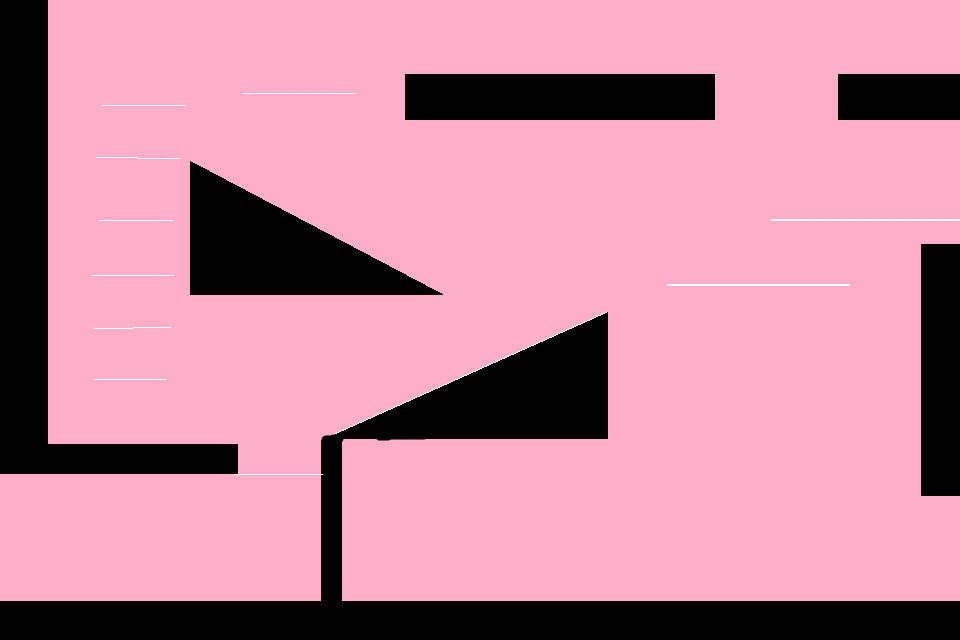
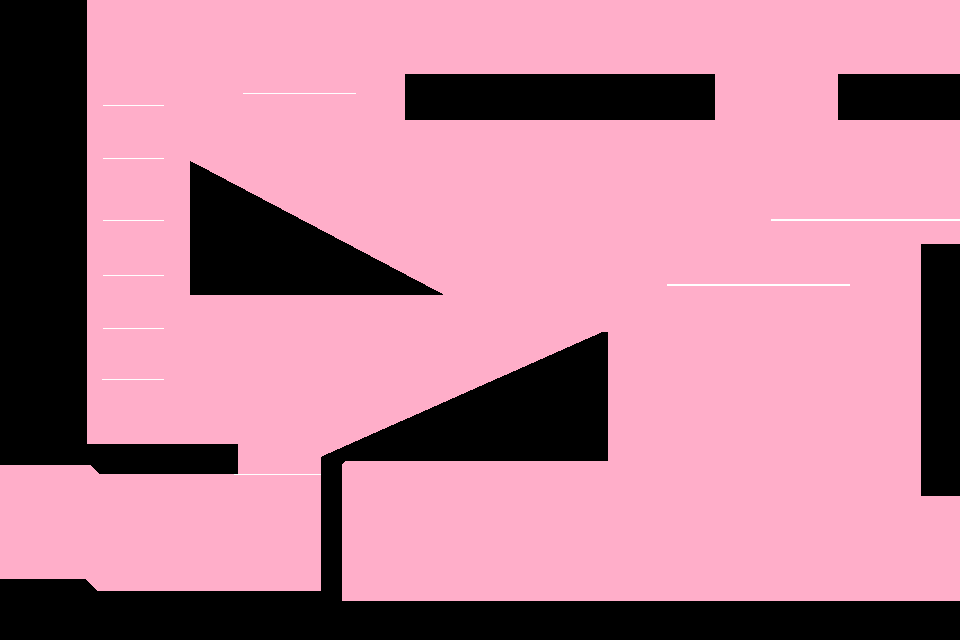
world and player changes and other stuff of course

Changed region(s): [[0.0, 0.0, 0.0938, 0.75], [0.3125, 0.5, 0.6562, 0.7188], [0.0, 0.9062, 0.3438, 0.9375]]

diff --git a/src/player.js b/src/player.js
@@ -3,15 +3,15 @@ class Player {
     x = 100; // middle of player (right pixel)
     y = 200;  // bottom of player
     vx = 0;
-    vy = 0;
+    vy = -20;
     w = 32;
     hw = 32/2; //half width
-    h = 64;
+    h = 80;
     ax = .6;
     jv = -18;
     // mvx = 20;
     mvy = 22;
-    midairJumps = 1;
+    midairJumps = 0;
     midair = true;
     midairTimer = 0;
     animator = new Animator();
@@ -62,12 +62,13 @@ class Player {
                 // if (this.vx > this.mvx) this.vx = this.mvx;
                 if (this.vx > 0) this.facingRight = true;
             }
-            if (keys[87] && !lastKeys[87]) { //up
-                this.jv = -18;
+            if (keys[87] && !lastKeys[87] && this.midairTimer < COYOTE_DUR) { //up
+                this.jv = -20;
                 this.animator.play("jumpcrouch", t => {
                     if (t > P_CROUCH_DUR) {
                         this.jumps--;
-                        this.animator.switchState("midair");
+                        this.animator.play("midair");
+                        this.midair = true;
                         this.vy = this.jv;
                     }
                 });
@@ -223,31 +224,16 @@ class Player {
     
     initAnimator() {
         let midairframes = [
-            { x:340, y:433, w:50, h:59, px:356, py:486 },
-            { x:393, y:430, w:46, h:62, px:411, py:486 },
-            { x:7,   y:511, w:44, h:66, px:24 , py:572 },
-            { x:59,  y:507, w:41, h:70, px:76 , py:572 },
-            { x:106, y:506, w:36, h:71, px:125, py:572 },
-            { x:154, y:507, w:36, h:70, px:172, py:572 },
-            { x:197, y:507, w:37, h:70, px:213, py:572 },
+            { x:384, y:249, w:92, h:127, px:436, py:375 },
         ]
         this.animator.register("midair",
             midairframes,
-            t => {
-                // if      (obj.vy > -2.25)  return 6;
-                // else if (obj.vy > -4.5)   return 5;
-                // else if (obj.vy > -6.75)  return 4;
-                // else if (obj.vy > -9)     return 3;
-                // else if (obj.vy > -11.25) return 2;
-                // else if (obj.vy > -13.5)  return 1;
-                // else                      return 0;
-                return Math.floor(Math.min(6,Math.max(0, 7+this.vy/2.25)));
-            }
+            t => 0
         );
 
         let jumpcrouchframes = [
-            { x:154, y:441, w:56, h:54, px:182, py:494 },
-            { x:214, y:440, w:55, h:55, px:242, py:494 },
+            { x:135, y:255, w:87, h:90, px:190, py:343 },
+            { x:260, y:254, w:88, h:107, px:297, py:360 },
         ];
         this.animator.register("jumpcrouch",
             jumpcrouchframes,
@@ -255,8 +241,8 @@ class Player {
         );
 
         let landingframes = [
-            { x:241, y:507, w:47, h:87, px:270, py:590 },
-            { x:291, y:551, w:58, h:43, px:332, py:581 },
+            { x:260, y:254, w:88, h:107, px:297, py:360 },
+            { x:135, y:255, w:87, h:90, px:190, py:343 },
         ];
         this.animator.register("land",
             landingframes,
@@ -264,18 +250,18 @@ class Player {
         );
 
         this.animator.register("stand", [
-                { x:3, y:7, w:36, h:42, px:21, py:44 },
+                { x:11, y:13, w:76, h:96, px:45, py:106 },
             ],
             (() => 0) //always select frame 0
         );
 
         let runningFrames = [
-            { x:3, y:7, w:36, h:42, px:21, py:44 },
-            { x:41, y:4, w:37, h:46, px:58, py:46 },
-            { x:80, y:6, w:38, h:44, px:97, py:46 },
-            { x:82, y:75, w:34, h:40, px:96, py:113 },
-            { x:124, y:72, w:39, h:46, px:145, py:115 },
-            { x:168, y:78, w:32, h:41, px:182, py:116 },
+            { x:11, y:13, w:76, h:96, px:45, py:106 },
+            { x:100, y:9, w:86, h:105, px:146, py:110 },
+            { x:203, y:20, w:79, h:93, px:243, py:110 },
+            { x:7, y:134, w:82, h:92, px:46, py:225 },
+            { x:117, y:129, w:86, h:103, px:156, py:230 },
+            { x:220, y:143, w:79, h:92, px:260, py:232 },
         ];
         this.animator.register("run", runningFrames,
         getLoopingFrameSelector(40, runningFrames.length)

diff --git a/src/game.js b/src/game.js
@@ -3,12 +3,12 @@ var lag = 0;
 var redraw = false;
 var player;
 var camera = new Camera();
+var world;
 var gameState = {
     update: function () { },
     draw: function () { },
 }
 
-// cMaps = [];
 
 function gameInit() {
     gameState.update = gameUpdate;
@@ -17,28 +17,28 @@ function gameInit() {
     camera = new Camera();
     camera.setTarget(player);
 
-    // cMap = new CollisionMap(img2AlphaMatrix(areaCanvas));
-    cmapImg = cmapImg1;
-    cMap = new CollisionMap(img2Matrix(cmapImg, PIXELDICT));
-    cMaps = [
-        new CollisionMap(img2Matrix(cmapImg1, PIXELDICT)),
-        new CollisionMap(img2Matrix(cmapImg2, PIXELDICT)),
-        new CollisionMap(img2Matrix(cmapImg3, PIXELDICT)),
-        new CollisionMap(img2Matrix(cmapImg4, PIXELDICT)),
-    ];
-    mapImgs = [
+    cMapImgs = [
         cmapImg1,
         cmapImg2,
         cmapImg3,
         cmapImg4,
     ];
     
+    mapImgs = [
+        backImg1,
+        cmapImg2,//replace with backimgs later
+        cmapImg3,
+        cmapImg4,
+    ];
+
+    world = new World(cMapImgs, mapImgs) 
+
     requestAnimationFrame(tick);
 }
 
 function gameUpdate() {
     camera.update();
-    player.update(cMap, keys, lastKeys, camera);
+    player.update(world.cMap, keys, lastKeys, camera);
     lastKeys = JSON.parse(JSON.stringify(keys)); //TODO: custom deep copy
 }
 
@@ -47,8 +47,7 @@ function gameDraw() {
     ctx.save();
     camera.moveCtx(ctx);
 
-    // let imgL = cMaps 
-    ctx.drawImage(cmapImg, 0, 0);
+    world.draw(ctx, camera.x + VW/2)
     player.draw(ctx);
     ctx.restore();
     drawHUD();

diff --git a/index.html b/index.html
@@ -5,7 +5,7 @@
   <link rel="stylesheet" type="text/css" href="index.css">
   <script>
     var loadedResrcs = 0;
-    const RESRCS_TO_LOAD = 5;
+    const RESRCS_TO_LOAD = 6;
     function resrcLoaded() { loadedResrcs++; loadmsg.innerHTML += "."; }
   </script>
 </head>
@@ -33,6 +33,7 @@
 <img hidden id='cmapImg2' onload="resrcLoaded()" src='resrc/L2.png'>
 <img hidden id='cmapImg3' onload="resrcLoaded()" src='resrc/L3.png'>
 <img hidden id='cmapImg4' onload="resrcLoaded()" src='resrc/L4.png'>
+<img hidden id='backImg1' onload="resrcLoaded()" src='resrc/backimg1.png'>
 
 <script src="src/peer.js"></script> <!-- https://peerjs.com/ -->
 <script src="src/constants.js"></script>
@@ -40,9 +41,10 @@
 <script src="src/imgutil.js"></script>
 <script src="src/collisionMap.js"></script>
 <script src="src/camera.js"></script>
-<script src="src/animator.js"></script>
 <script src="src/player.js"></script>
-<script src="src/game.js"></script>
+<script src="src/animator.js"></script>
+<script src="src/world.js"></script>
+<script defer src="src/game.js"></script>
 
 <script>
   var peer;
@@ -63,7 +65,7 @@
     });
 
     peer.on('error', () => {
-      myPeerID.innerHTML = "There was an error setting the connection. Please reload and try again later";
+      myPeerID.innerHTML = "There was an error setting up the connection. Please reload and try again later";
     });
 
     hosting = true;

diff --git a/src/collisionMap.js b/src/collisionMap.js
@@ -12,9 +12,10 @@ class CollisionMap {
         let r = Math.round(bottom) + 1; //row below bottom
         if (r >= WH || r < 0) return null;       //world borders
         x = Math.round(x) - halfwidth;  //left
+        //should pass in keys, but too lazy
         for (let c = x; c < x + halfwidth*2; c++) {
             let val = this.collMatrix[r][c];
-            if (val == 1 || val === 0) {
+            if (val == 1 || (val === 0 && !keys[83])) {
                 return c;
             }
         }
@@ -43,7 +44,7 @@ class CollisionMap {
             if (r < 0 || r >= WH) return null;
             let val = this.collMatrix[r][c];
             if (val == 1) return r;
-            if (doStepUp && r > y - STEP_UP_GRACE && val === 0) {
+            if (doStepUp && r > y - STEP_UP_GRACE && val === 0 && !keys[83]) {
                 return r;
             } 
         }
@@ -59,7 +60,7 @@ class CollisionMap {
             if (r < 0 || r >= WH) return null;
             let val = this.collMatrix[r][c];
             if (val == 1) return r;
-            if (doStepUp && r > y - STEP_UP_GRACE && val === 0) {
+            if (doStepUp && r > y - STEP_UP_GRACE && val === 0 && !keys[83]) {
                 return r;
             } 
         }

diff --git a/src/world.js b/src/world.js
@@ -1,0 +1,25 @@
+class World {
+  
+  constructor(collisionImgs, backImgs) {
+    let canvas = document.createElement("canvas");
+    let ctx = canvas.getContext("2d");
+    canvas.width = collisionImgs.length * CW;
+    canvas.height = CH;
+    for (let i = 0; i < collisionImgs.length; i++) {
+      let cImg = collisionImgs[i];
+      ctx.drawImage(cImg, i * CW, 0);
+    }
+    let imagedata = ctx.getImageData(0, 0, canvas.width, canvas.height);
+    console.log(imagedata)
+    this.cMap = new CollisionMap(imageData2Matrix(imagedata, PIXELDICT)); //maybe pass in imagedata?
+    this.backImgs = backImgs;
+  }
+  
+  draw(ctx, px) {
+    let idx = Math.floor((px / CW) - .5);
+    let img1 = this.backImgs[idx];
+    let img2 = this.backImgs[idx+1];
+    if (img1 != null) ctx.drawImage(img1, CW*idx, 0);
+    if (img2 != null) ctx.drawImage(img2, CW*(idx+1), 0);
+  }
+}

diff --git a/src/constants.js b/src/constants.js
@@ -4,8 +4,10 @@ var ctx = canvas.getContext("2d");
 
 const VW = renderer.width
 const VH = renderer.height
-const WW = renderer.width * 4/3
-const WH = renderer.height * 4/3
+const CW = renderer.width * 4/3
+const CH = renderer.height * 4/3
+const WW = CW * 4;
+const WH = CH;
 
 //game state
 const UPDATES_PER_SEC = 60;

diff --git a/src/imgutil.js b/src/imgutil.js
@@ -90,7 +90,6 @@ function img2AlphaMatrix(img, binary=true) {
     return imageData2AlphaMatrix(img2ImageData(img), binary);
 }
 
-
 function spriteSheetImg2ImgArray(img, spw=32, sph=32) {
     let canvas = document.createElement("canvas");
     let ctx = canvas.getContext("2d");
